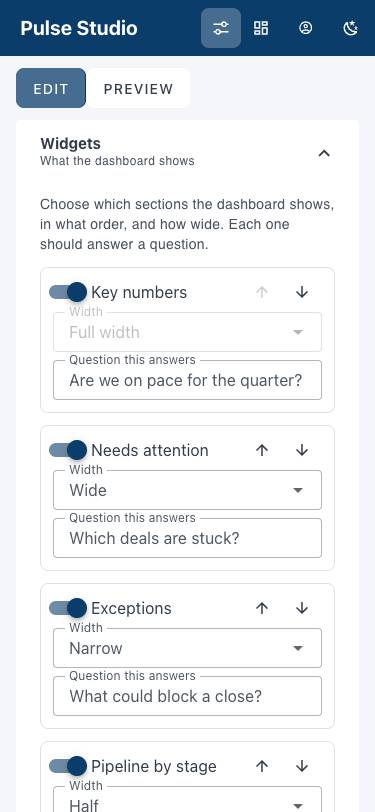
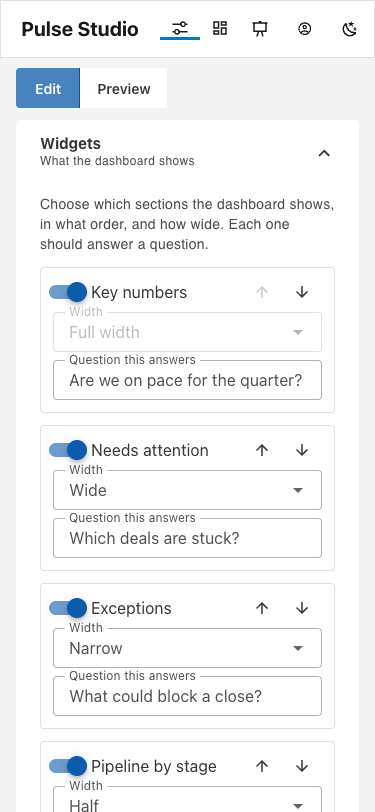
Restyle in the spirit of Salesforce Lightning: light header, chevron Path, 4px radius, blue palette
Visual style only. Palette, typography, header, deal record header and Path,
BRIEF tokens and docs updated; screenshots regenerated. axe 0 violations in
light and dark; e2e, Phase 3 and overflow checks pass.

diff --git a/src/components/deal/StagePath.vue b/src/components/deal/StagePath.vue
@@ -11,10 +11,7 @@ defineProps<{ stages: Stage[]; current: string }>()
       :class="{ done: i < stages.findIndex(x => x.id === current), now: s.id === current }"
       :aria-current="s.id === current ? 'step' : undefined"
     >
-      <span class="dot">
-        <v-icon v-if="i < stages.findIndex(x => x.id === current) || (s.id === current && i === stages.length - 1)" :icon="mdiCheck" size="16" aria-hidden="true" />
-        <template v-else>{{ i + 1 }}</template>
-      </span>
+      <v-icon v-if="i < stages.findIndex(x => x.id === current) || (s.id === current && i === stages.length - 1)" :icon="mdiCheck" size="16" aria-hidden="true" />
       <span class="label">{{ s.name }}</span>
       <span class="sr-only">{{ i < stages.findIndex(x => x.id === current) ? '(completed)' : s.id === current ? '(current)' : '(upcoming)' }}</span>
     </li>
@@ -22,16 +19,20 @@ defineProps<{ stages: Stage[]; current: string }>()
 </template>
 
 <style scoped>
-.path { list-style: none; margin: 0; padding: 0; display: flex; gap: 8px; flex-wrap: wrap; }
-li { flex: 1 1 100px; display: flex; flex-direction: column; gap: 6px; align-items: flex-start; padding-top: 10px; border-top: 4px solid rgba(var(--v-theme-on-surface), 0.14); }
-li.done { border-top-color: rgb(var(--v-theme-primary)); }
-li.now { border-top-color: rgb(var(--v-theme-secondary)); }
-.dot {
-  width: 26px; height: 26px; border-radius: 50%; display: grid; place-items: center; font-size: 0.8125rem; font-weight: 700;
-  border: 2px solid rgba(var(--v-theme-on-surface), 0.4); color: rgba(var(--v-theme-on-surface), 0.8);
+/* Lightning "Path": chevron steps. Complete = green + check, current = blue, upcoming = grey. Name and (sr-only) state are always text. */
+.path { list-style: none; margin: 0; padding: 0; display: flex; flex-wrap: wrap; row-gap: 8px; }
+li {
+  flex: 1 1 110px; min-width: 0; position: relative; display: flex; align-items: center; justify-content: center; gap: 4px;
+  min-height: 36px; padding: 6px 22px 6px 26px; margin-inline-end: -10px; text-align: center;
+  background: rgba(var(--v-theme-on-surface), 0.1); color: rgb(var(--v-theme-on-surface));
+  clip-path: polygon(0 0, calc(100% - 14px) 0, 100% 50%, calc(100% - 14px) 100%, 0 100%, 14px 50%);
 }
-li.done .dot { background: rgb(var(--v-theme-primary)); border-color: rgb(var(--v-theme-primary)); color: rgb(var(--v-theme-surface)); }
-li.now .dot { border-color: rgb(var(--v-theme-secondary)); box-shadow: 0 0 0 3px rgba(var(--v-theme-secondary), 0.25); font-weight: 800; }
-.label { font-size: 0.875rem; font-weight: 600; }
-li:not(.done):not(.now) .label { font-weight: 500; color: rgba(var(--v-theme-on-surface), 0.72); }
+li:first-child { padding-inline-start: 16px; clip-path: polygon(0 0, calc(100% - 14px) 0, 100% 50%, calc(100% - 14px) 100%, 0 100%); border-radius: 4px 0 0 4px; }
+li:last-child { margin-inline-end: 0; padding-inline-end: 16px; clip-path: polygon(0 0, 100% 0, 100% 100%, 0 100%, 14px 50%); border-radius: 0 4px 4px 0; }
+li:first-child:last-child { clip-path: none; border-radius: 4px; }
+li.done { background: rgb(var(--v-theme-success)); color: rgb(var(--v-theme-on-success)); }
+li.now { background: rgb(var(--v-theme-secondary)); color: rgb(var(--v-theme-on-secondary)); }
+/* The lightened dark-theme accent needs dark text (white is only 3.1:1 on it). */
+.v-theme--dark li.now { color: rgb(var(--v-theme-background)); }
+.label { font-size: 0.875rem; font-weight: 600; overflow-wrap: anywhere; }
 </style>

diff --git a/src/App.vue b/src/App.vue
@@ -1,7 +1,7 @@
 <script setup lang="ts">
 import { computed, ref, watch } from 'vue'
 import { useTheme } from 'vuetify'
-import { mdiAccountCircleOutline, mdiChevronDown, mdiPresentation, mdiTuneVariant, mdiViewDashboardOutline, mdiWeatherNight, mdiWhiteBalanceSunny } from '@mdi/js'
+import { mdiAccountCircleOutline, mdiChartBoxOutline, mdiChevronDown, mdiPresentation, mdiTuneVariant, mdiViewDashboardOutline, mdiWeatherNight, mdiWhiteBalanceSunny } from '@mdi/js'
 import { useWorkspace } from '@/composables/useWorkspace'
 import { useToast } from '@/composables/useToast'
 import { usePresentation } from '@/composables/usePresentation'
@@ -41,8 +41,9 @@ watch(noticeOpen, o => { if (!o) dismissNotice() })
 
 <template>
   <v-app>
-    <v-app-bar flat :color="isDark ? 'surface' : 'primary'" :border="isDark" density="comfortable">
+    <v-app-bar flat color="surface" border density="comfortable" class="global-header">
       <img v-if="state.config.brand.logo" :src="state.config.brand.logo" alt="" class="logo" />
+      <span v-else class="app-tile" aria-hidden="true"><v-icon :icon="mdiChartBoxOutline" size="20" /></span>
       <v-app-bar-title class="title">
         <RouterLink :to="{ name: 'start' }" class="brand-link" aria-label="Start screen">
           <span class="font-weight-bold">{{ state.config.brand.product }}</span>
@@ -106,5 +107,12 @@ watch(noticeOpen, o => { if (!o) dismissNotice() })
 .brand-link { color: inherit; text-decoration: none; }
 .brand-link:focus-visible { outline: 2px solid currentColor; outline-offset: 4px; border-radius: 4px; }
 .present-space { height: 110px; }
+.app-tile { display: grid; place-items: center; width: 32px; height: 32px; margin-inline-start: 16px; border-radius: 4px; background: rgb(var(--v-theme-primary)); color: rgb(var(--v-theme-on-primary)); flex: none; }
+/* Active tab: Lightning marks the current nav item with a blue underline. */
+/* Phone: drop the tile so the product name has room. */
+@media (max-width: 599px) { .app-tile { display: none; } }
+.global-header nav .v-btn { border-radius: 0; height: 100% !important; border-bottom: 3px solid transparent; }
+.global-header nav .v-btn.v-btn--active { border-bottom-color: rgb(var(--v-theme-secondary)); }
+.global-header nav .v-btn.v-btn--active :deep(.v-btn__overlay) { opacity: 0; }
 .logo { height: 28px; max-width: 120px; object-fit: contain; margin-inline-start: 16px; }
 </style>

diff --git a/src/views/DealView.vue b/src/views/DealView.vue
@@ -1,7 +1,7 @@
 <script setup lang="ts">
 import { computed, ref } from 'vue'
 import { useRoute } from 'vue-router'
-import { mdiArrowLeft, mdiCheck } from '@mdi/js'
+import { mdiArrowLeft, mdiCheck, mdiCurrencyUsd } from '@mdi/js'
 import StatusChip from '@/components/common/StatusChip.vue'
 import EmptyState from '@/components/common/EmptyState.vue'
 import StagePath from '@/components/deal/StagePath.vue'
@@ -57,14 +57,18 @@ const facts = computed(() => deal.value ? [
     <template v-if="deal">
       <v-btn :to="back" variant="text" :prepend-icon="mdiArrowLeft" class="mb-2 ml-n3">Back to dashboard</v-btn>
       <header class="head">
-        <div>
-          <h1 class="text-h5 mb-1">{{ deal.name }}</h1>
-          <p class="text-body-2 text-medium-emphasis mb-0">{{ deal.id }} · {{ client?.name }}</p>
+        <div class="d-flex ga-3 align-center">
+          <span class="record-tile" aria-hidden="true"><v-icon :icon="mdiCurrencyUsd" size="24" /></span>
+          <div>
+            <p class="eyebrow mb-0">Deal</p>
+            <h1 class="text-h5 mb-1">{{ deal.name }}</h1>
+            <p class="text-body-2 text-medium-emphasis mb-0">{{ deal.id }} · {{ client?.name }}</p>
+          </div>
         </div>
         <StatusChip :status="status" />
       </header>
 
-      <v-card variant="flat" border class="pa-4 mb-4"><StagePath :stages="state.stages" :current="deal.stage" /></v-card>
+      <v-card variant="flat" border class="pa-3 mb-4"><StagePath :stages="state.stages" :current="deal.stage" /></v-card>
 
       <div class="cols">
         <v-card variant="flat" border class="pa-4">
@@ -103,6 +107,8 @@ const facts = computed(() => deal.value ? [
 
 <style scoped>
 .page { max-width: 1100px; padding: 16px; }
+.record-tile { display: grid; place-items: center; width: 40px; height: 40px; border-radius: 4px; flex: none; background: rgb(var(--v-theme-success)); color: rgb(var(--v-theme-on-success)); }
+.eyebrow { font-size: 0.75rem; color: rgba(var(--v-theme-on-surface), 0.76); }
 .head { display: flex; justify-content: space-between; align-items: flex-start; gap: 12px; margin-bottom: 16px; flex-wrap: wrap; }
 .cols { display: grid; grid-template-columns: minmax(0, 1fr) minmax(0, 1fr); gap: 16px; }
 .stack-col { display: grid; gap: 16px; align-content: start; }

diff --git a/src/plugins/vuetify.ts b/src/plugins/vuetify.ts
@@ -2,7 +2,7 @@ import 'vuetify/styles'
 import { createVuetify } from 'vuetify'
 import { aliases, mdi } from 'vuetify/iconsets/mdi-svg'
 
-// Tokens from BRIEF §11. Brand colors from Studio override primary/secondary at runtime.
+// Tokens from BRIEF §11 (Lightning-inspired palette). Brand colors from Studio override primary/secondary at runtime.
 export default createVuetify({
   icons: { defaultSet: 'mdi', aliases, sets: { mdi } }, // SVG paths from @mdi/js: no font download
   theme: {
@@ -11,22 +11,22 @@ export default createVuetify({
       light: {
         dark: false,
         colors: {
-          primary: '#0B3D6B',
-          secondary: '#12A59A',
-          background: '#F4F6F9',
+          primary: '#0B5CAB', // SLDS "brand accessible": 6:1 on the grey page, so it is safe for link text
+          secondary: '#0176D3', // SLDS brand blue: 4.6:1 on white. Fills, focus ring, current stage
+          background: '#F3F3F3',
           surface: '#FFFFFF',
-          error: '#C62828',
+          error: '#BA0517',
           warning: '#955700', // BRIEF amber #B26A00 is 4.2:1 on white; darkened to pass 4.5:1 as text
-          'on-surface': '#14202E',
-          'on-background': '#14202E',
-          success: '#2E7D32',
+          'on-surface': '#181818',
+          'on-background': '#181818',
+          success: '#2E844A',
         },
       },
       dark: {
         dark: true,
         colors: {
-          primary: '#6FA8DC',
-          secondary: '#3CC9BD',
+          primary: '#78B0FD',
+          secondary: '#1B96FF',
           background: '#0F1722',
           surface: '#18222F',
           error: '#EF7B7B',
@@ -36,5 +36,5 @@ export default createVuetify({
       },
     },
   },
-  defaults: { VBtn: { rounded: 'lg' }, VCard: { rounded: 'lg' } },
+  defaults: { VCard: { rounded: true } }, // 4px radius, as in Lightning (buttons keep Vuetify's 4px default)
 })

diff --git a/src/styles.css b/src/styles.css
@@ -1,4 +1,6 @@
-:root { font-family: Inter, system-ui, -apple-system, 'Segoe UI', sans-serif; }
+:root { font-family: -apple-system, BlinkMacSystemFont, 'Segoe UI', Roboto, Helvetica, Arial, sans-serif; }
+/* Lightning buttons use sentence case, not capitals. */
+.v-btn { text-transform: none; letter-spacing: normal; font-weight: 600; }
 body { margin: 0; }
 .num, .v-table td.num { font-variant-numeric: tabular-nums; }
 @media (prefers-reduced-motion: reduce) {
@@ -15,7 +17,7 @@ body { margin: 0; }
 .widget { container-type: inline-size; container-name: widget; }
 
 .plain-btn {
-  all: unset; cursor: pointer; box-sizing: border-box; border-radius: 6px;
+  all: unset; cursor: pointer; box-sizing: border-box; border-radius: 4px;
 }
 .plain-btn:focus-visible { outline: 2px solid rgb(var(--v-theme-secondary)); outline-offset: 2px; }
 .link-btn { all: unset; cursor: pointer; font-weight: 600; color: rgb(var(--v-theme-primary)); border-radius: 4px; }
@@ -48,5 +50,5 @@ body .v-theme--light, body .v-theme--dark { --v-medium-emphasis-opacity: 0.78; }
 .v-field:not(.v-field--focused):not(.v-field--error) .v-label.v-field-label { opacity: 1; color: rgba(var(--v-theme-on-surface), 0.76); }
 
 /* Present-mode spotlight. The outline and halo are static; only the pulse animates (and is removed under reduced motion). */
-.spot { outline: 3px solid rgb(var(--v-theme-secondary)); outline-offset: 4px; border-radius: 12px; box-shadow: 0 0 0 10px rgba(var(--v-theme-secondary), 0.2); animation: spot-pulse 2s ease-in-out infinite; }
+.spot { outline: 3px solid rgb(var(--v-theme-secondary)); outline-offset: 4px; border-radius: 4px; box-shadow: 0 0 0 10px rgba(var(--v-theme-secondary), 0.2); animation: spot-pulse 2s ease-in-out infinite; }
 @keyframes spot-pulse { 50% { box-shadow: 0 0 0 14px rgba(var(--v-theme-secondary), 0.08); } }

diff --git a/src/components/dashboard/StageBars.vue b/src/components/dashboard/StageBars.vue
@@ -39,8 +39,8 @@ const max = computed(() => Math.max(1, ...props.rows.map(r => r.value)))
 .row:hover { background: rgba(var(--v-theme-on-surface), 0.04); }
 .row.on { border-color: rgb(var(--v-theme-secondary)); background: rgba(var(--v-theme-secondary), 0.08); }
 .name { grid-area: name; font-weight: 600; font-size: 0.875rem; }
-.track { grid-area: track; height: 14px; border-radius: 7px; background: rgba(var(--v-theme-on-surface), 0.08); overflow: hidden; }
-.fill { display: block; height: 100%; border-radius: 7px; background: rgb(var(--v-theme-primary)); }
+.track { grid-area: track; height: 14px; border-radius: 4px; background: rgba(var(--v-theme-on-surface), 0.08); overflow: hidden; }
+.fill { display: block; height: 100%; border-radius: 4px; background: rgb(var(--v-theme-primary)); }
 .val { grid-area: val; font-size: 0.8125rem; font-variant-numeric: tabular-nums; }
 .warn { grid-area: warn; font-size: 0.8125rem; font-weight: 600; display: flex; align-items: center; gap: 4px; }
 </style>

diff --git a/src/views/StudioView.vue b/src/views/StudioView.vue
@@ -78,7 +78,7 @@ const onStage = (id: string) => (id === filters.value.stage ? clearStage() : tog
 .panels { padding: 12px 16px; }
 .preview { padding: 0 16px 16px; }
 .bar { display: flex; align-items: center; gap: 8px; padding: 8px 0; flex-wrap: wrap; }
-.canvas-wrap { border: 1px solid rgba(var(--v-border-color), var(--v-border-opacity)); border-radius: 8px; padding: 16px; background: rgb(var(--v-theme-background)); }
+.canvas-wrap { border: 1px solid rgba(var(--v-border-color), var(--v-border-opacity)); border-radius: 4px; padding: 16px; background: rgb(var(--v-theme-background)); }
 @media (min-width: 960px) {
   .studio { display: grid; grid-template-columns: 380px minmax(0, 1fr); height: calc(100dvh - var(--v-layout-top, 56px)); }
   .panels, .preview { overflow-y: auto; height: 100%; }

diff --git a/src/data/templates.ts b/src/data/templates.ts
@@ -27,7 +27,7 @@ function blankWorkspace(): WorkspaceState {
     deals: [], exceptions: [], activity: [],
     trend: Array.from({ length: 12 }, (_, i) => ({ month: month(11 - i), fundedVolume: 0, newPipeline: 0 })),
     config: {
-      brand: { organization: 'Your organization', product: 'Pulse Studio', logo: '', primary: '#0B3D6B', accent: '#12A59A' },
+      brand: { organization: 'Your organization', product: 'Pulse Studio', logo: '', primary: '#0B5CAB', accent: '#0176D3' },
       thresholds: { atRiskRatio: 0.8 },
       personas: [{ id: 'p-viewer', name: 'Dashboard viewer', title: 'Who is this for?', scope: 'all', focus: 'What does this person need to know first?', questions: [] }],
       widgets: [

diff --git a/src/components/studio/BrandPanel.vue b/src/components/studio/BrandPanel.vue
@@ -11,7 +11,7 @@ const brand = computed(() => state.config.brand)
 
 const hex = (v: string) => (v.startsWith('#') ? v : `#${v}`).toUpperCase()
 const required = (v: string) => !!v?.trim() || 'Required'
-const hexRule = (v: string) => isHexColor(hex(v)) || 'Use a hex colour like #0B3D6B'
+const hexRule = (v: string) => isHexColor(hex(v)) || 'Use a hex colour like #0B5CAB'
 
 // Primary carries white text (app bar) and is used as link text on white; accent is only used for fills and highlights.
 const primaryRatio = computed(() => isHexColor(brand.value.primary) ? contrastRatio(brand.value.primary, '#FFFFFF') : 21)

diff --git a/src/components/studio/WidgetsPanel.vue b/src/components/studio/WidgetsPanel.vue
@@ -37,7 +37,7 @@ const spans = (type: keyof typeof registry) => registry[type].spans.map(v => ({ 
 
 <style scoped>
 .list { list-style: none; margin: 0; padding: 0; display: grid; gap: 12px; }
-li { border: 1px solid rgba(var(--v-border-color), var(--v-border-opacity)); border-radius: 8px; padding: 4px 12px 12px; }
+li { border: 1px solid rgba(var(--v-border-color), var(--v-border-opacity)); border-radius: 4px; padding: 4px 12px 12px; }
 li.off { background: rgba(var(--v-theme-on-surface), 0.04); }
 .top { display: flex; align-items: center; justify-content: space-between; }
 .moves { display: flex; }

diff --git a/src/components/studio/DataPanel.vue b/src/components/studio/DataPanel.vue
@@ -23,7 +23,7 @@ const open = computed(() => state.deals.filter(d => !d.fundedDate))
 
 <style scoped>
 .stats { display: grid; grid-template-columns: repeat(3, 1fr); gap: 8px; margin: 0 0 16px; }
-.stats div { border: 1px solid rgba(var(--v-border-color), var(--v-border-opacity)); border-radius: 8px; padding: 8px 12px; }
+.stats div { border: 1px solid rgba(var(--v-border-color), var(--v-border-opacity)); border-radius: 4px; padding: 8px 12px; }
 dt { font-size: 0.75rem; color: rgba(var(--v-theme-on-surface), 0.72); }
 dd { margin: 0; font-size: 1.25rem; font-weight: 700; }
 </style>

diff --git a/src/components/studio/StagesPanel.vue b/src/components/studio/StagesPanel.vue
@@ -71,7 +71,7 @@ function remove(s: Stage) {
 
 <style scoped>
 .list { list-style: none; margin: 0; padding: 0; display: grid; gap: 12px; }
-li { border: 1px solid rgba(var(--v-border-color), var(--v-border-opacity)); border-radius: 8px; padding: 12px; }
+li { border: 1px solid rgba(var(--v-border-color), var(--v-border-opacity)); border-radius: 4px; padding: 12px; }
 li.final { background: rgba(var(--v-theme-on-surface), 0.04); }
 .top { display: grid; grid-template-columns: 1fr auto; gap: 4px; align-items: start; }
 .actions { display: flex; }
